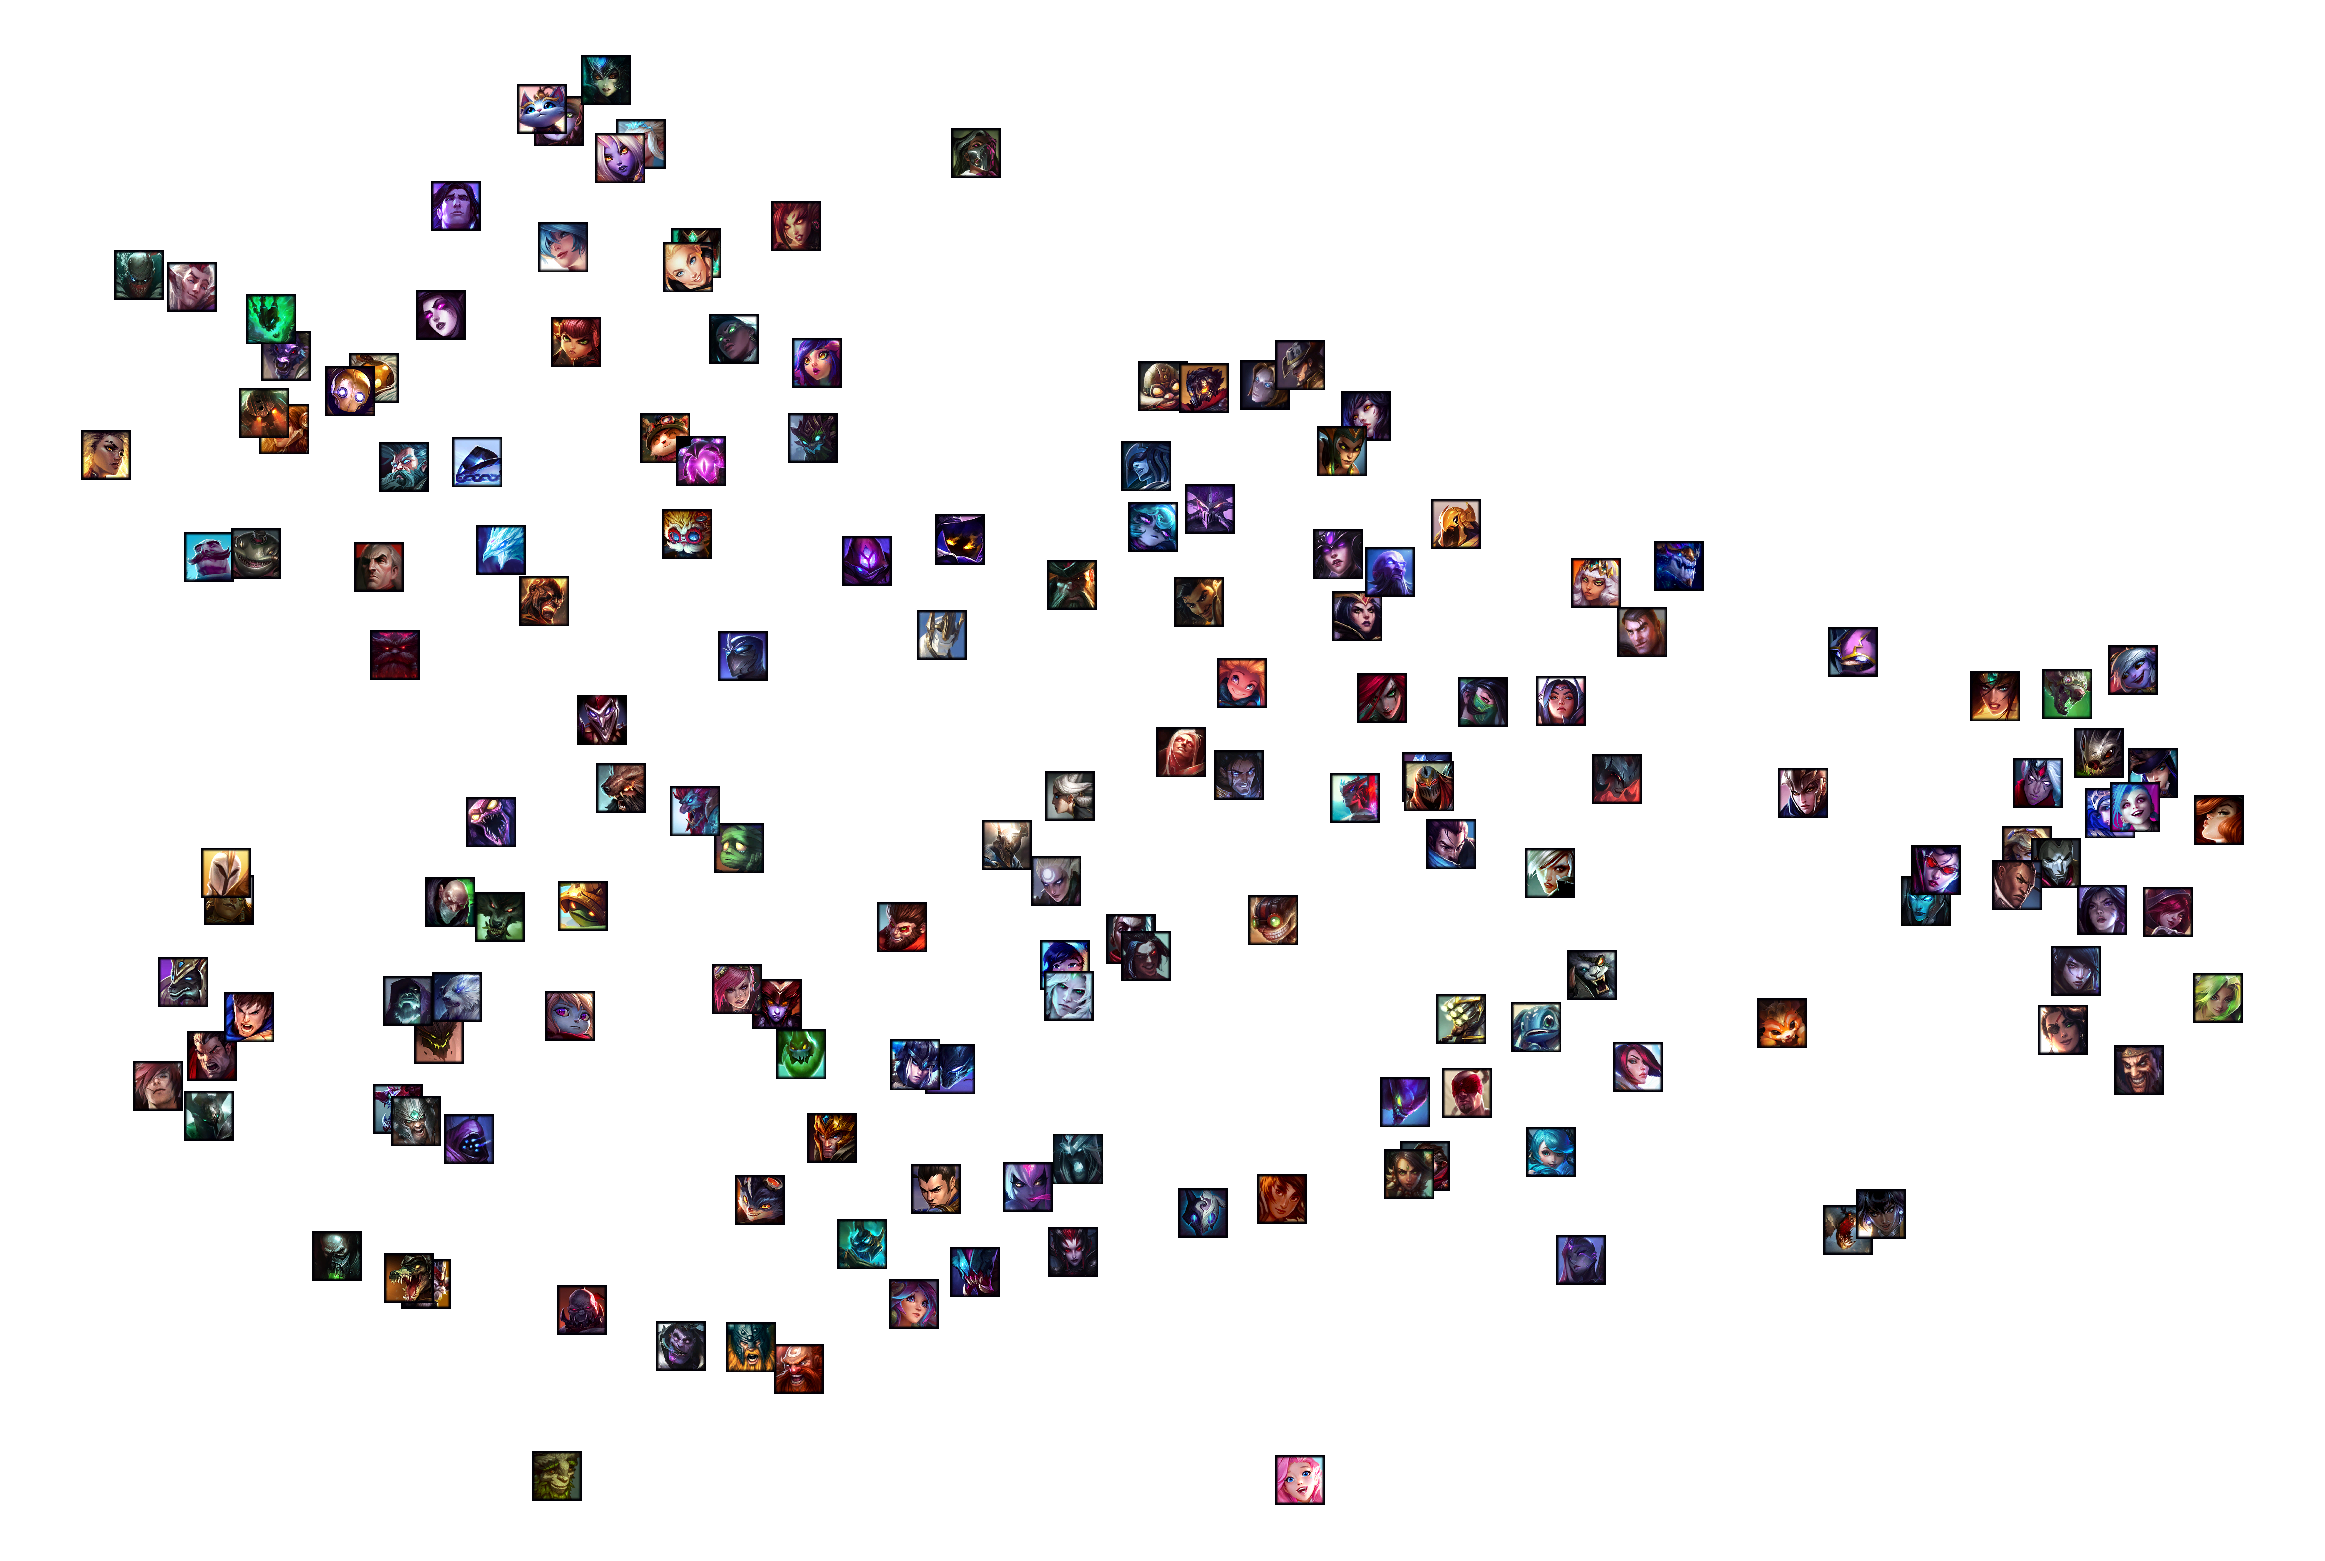
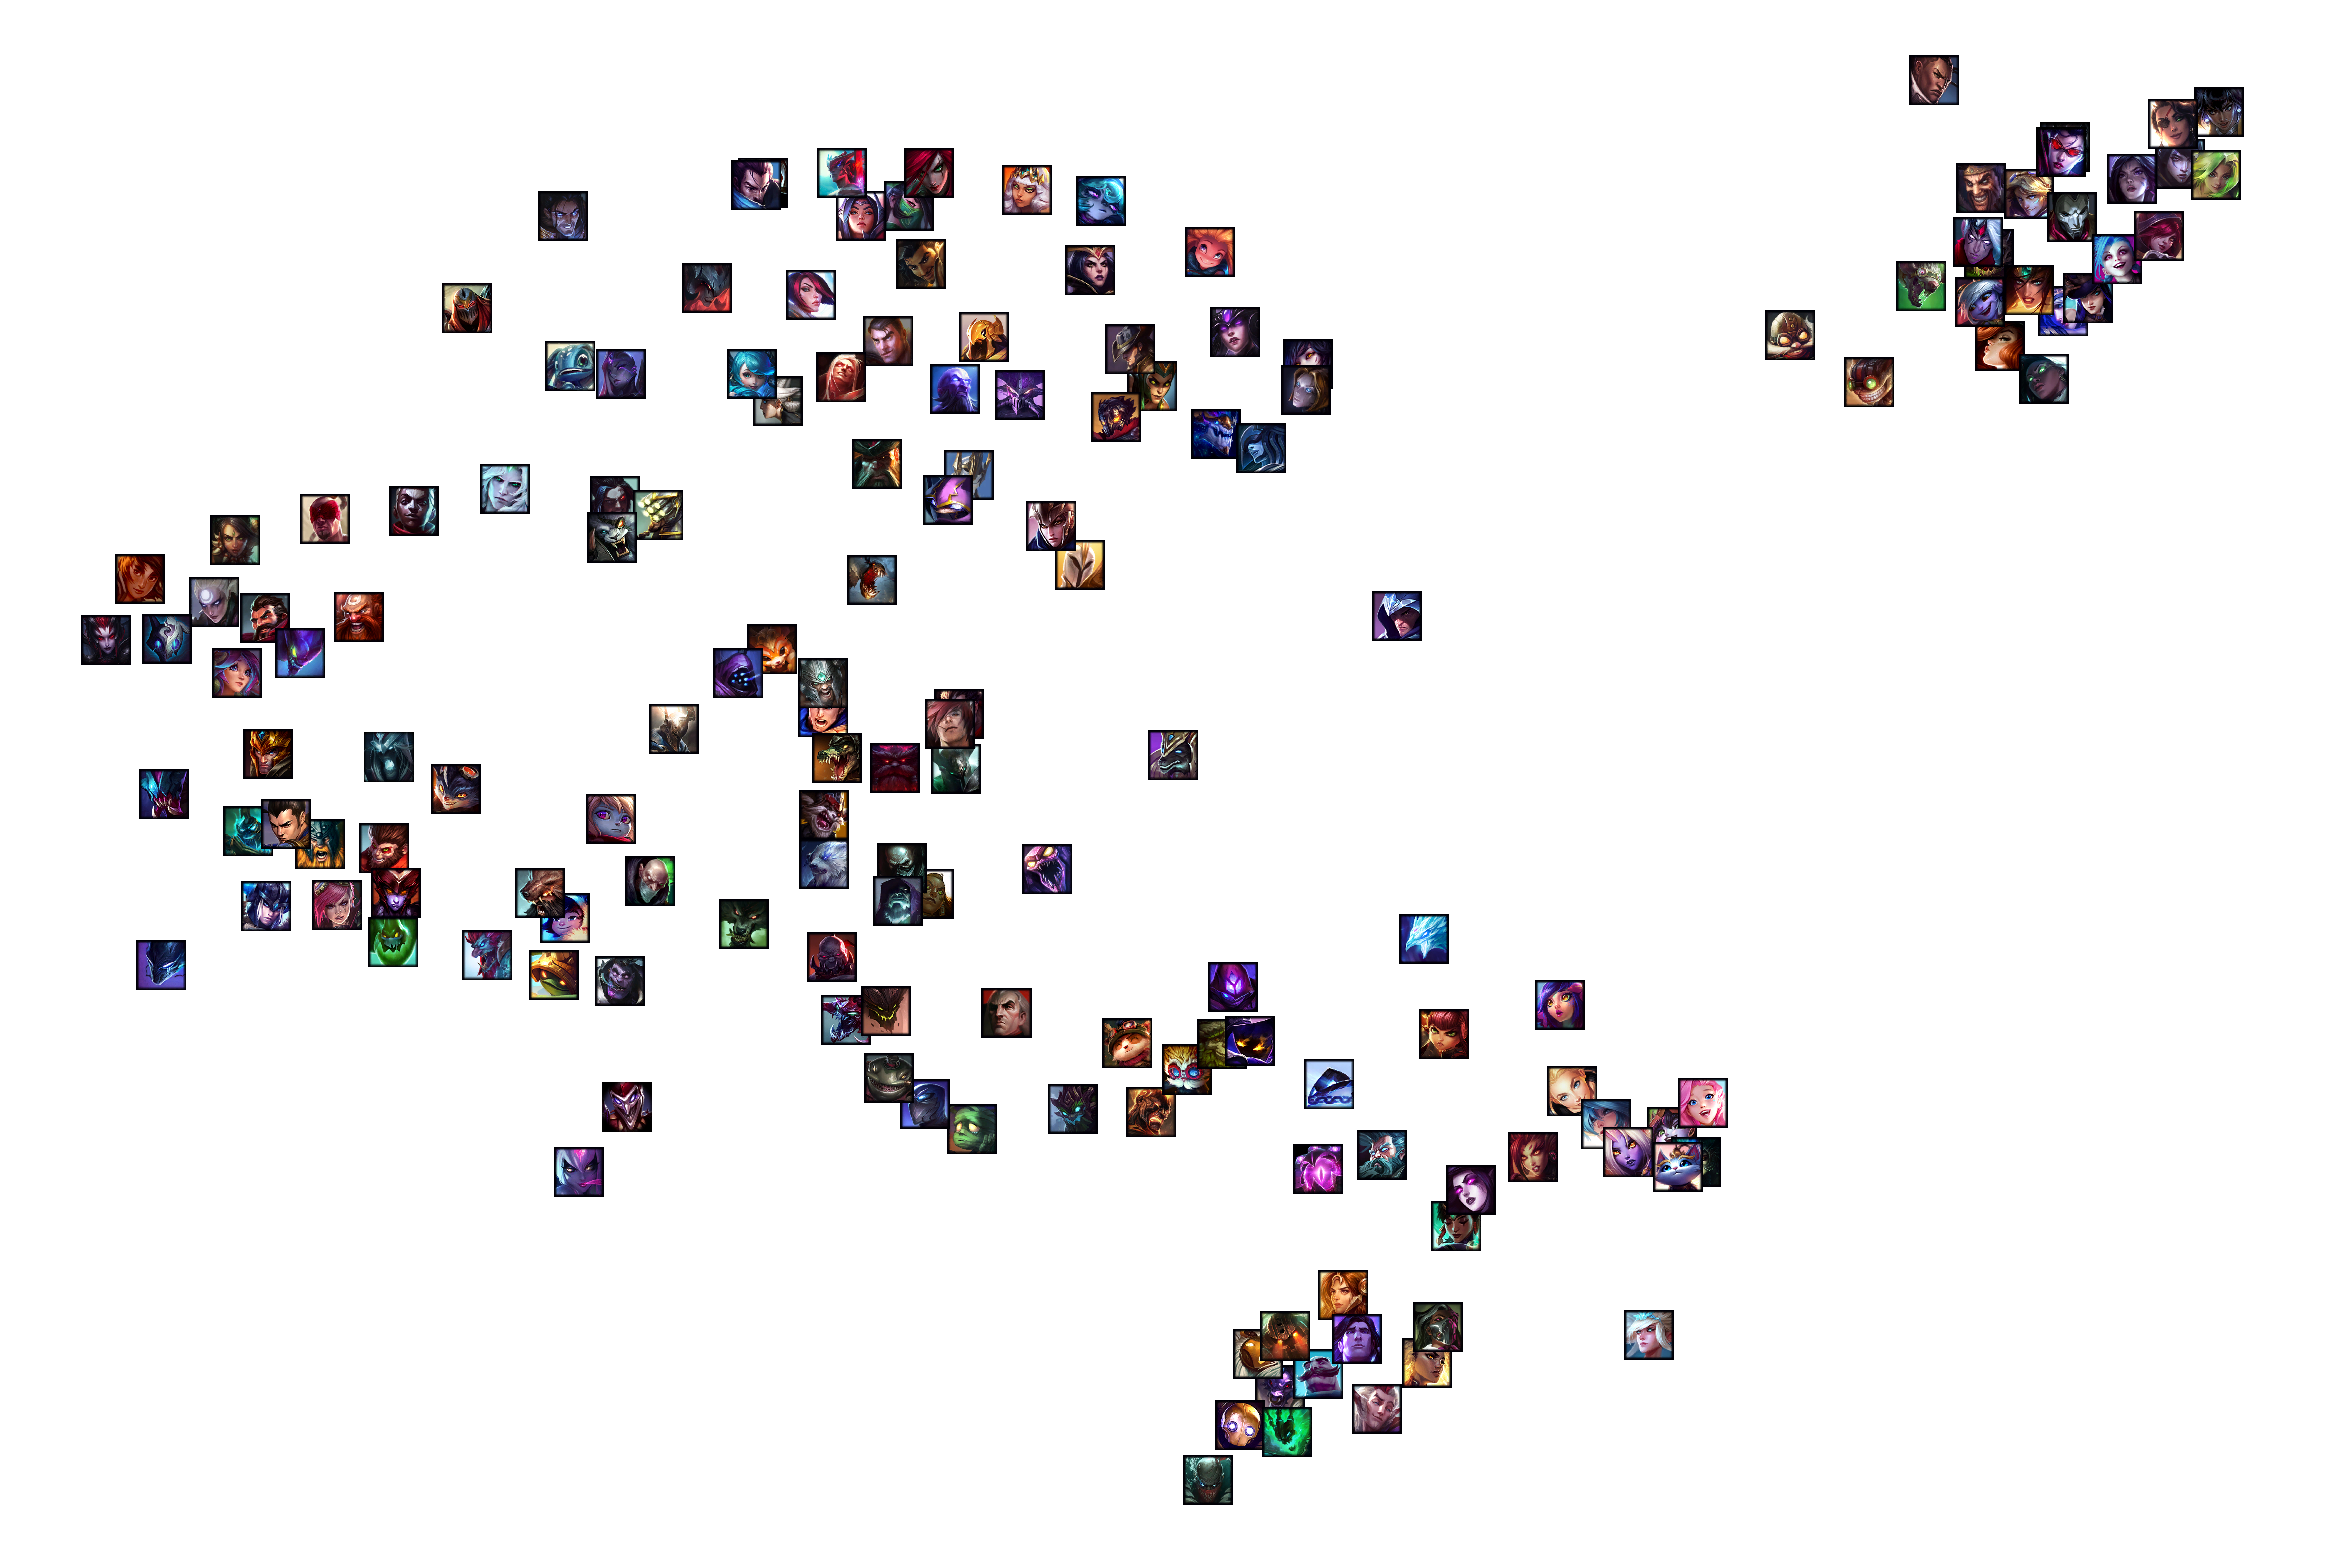
change hyperparameter

diff --git a/embedding.py b/embedding.py
@@ -19,6 +19,8 @@ from matplotlib import pyplot as plt
 from matplotlib.offsetbox import AnnotationBbox, OffsetImage
 from sklearn import manifold 
 
+from sklearn.decomposition import PCA
+
 # SQL and ORM
 import sqlite3
 import pandas as pd
@@ -71,13 +73,13 @@ class Dataset(torch.utils.data.Dataset):
     # Select champion pair with weight
     def _champion_choice(self,champPointDict):
         # Give weight according to the mastery point
-        pointList = [10 if x==None else pow(int(x),0.9) for x in list(champPointDict.values())[2:]]
+        pointList = [10 if x==None else pow(int(x),0.5) for x in list(champPointDict.values())[2:]]
         # Select 15 champions
         pointList = np.array(pointList)/np.ndarray.sum(np.array(pointList))
         if len(pointList) != len(list(ID_TO_CHAMP.values())):
             len(pointList)
             len(list(ID_TO_CHAMP.values()))
-        champWeightedList = list(np.random.choice(np.array(list(ID_TO_CHAMP.values())), p=pointList, size=15, replace=False))
+        champWeightedList = list(np.random.choice(np.array(list(ID_TO_CHAMP.values())), p=pointList, size=20, replace=False))
         champComb = list(itertools.combinations(champWeightedList, 2)) # list of tuple (champName, champName) <- string
         # print(len(champComb))
         return champComb
@@ -110,10 +112,11 @@ time.sleep(2)
 
 ######
 IS_TRAIN = False
+batch_size = 64
 
 # Training step
 train_dataset = Dataset(summonerMasteryResult)
-training_generator = torch.utils.data.DataLoader(train_dataset, shuffle=True)
+training_generator = torch.utils.data.DataLoader(train_dataset, shuffle=True, batch_size=batch_size)
 
 use_cuda = torch.cuda.is_available()
 device = torch.device("cuda:0" if use_cuda else "cpu")
@@ -122,9 +125,9 @@ print(f'Torch device: {device}')
 net = Model(161,15)#.cuda()
 net.train()
 optimizer = optim.Adam(net.parameters())
-total_epoch = 100
+total_epoch = 150
 iteration = 0
-total_iter = total_epoch*train_dataset.__len__()
+total_iter = int(total_epoch*train_dataset.__len__() / batch_size)
 print(total_iter)
 # what I learn:
 if IS_TRAIN:
@@ -132,16 +135,12 @@ if IS_TRAIN:
         for account in training_generator:
             # account: (B, 1, 105, 3)
             optimizer.zero_grad()
-            # print(account.shape)
-            #account = rearrange(account, 'B C A -> (B C) A')
-            # print(account.shape)
-            #champ1 = account[0].to(torch.int) # champ1 index list
-            champ1 = account[0,:,0].to(torch.int)
-            #champ2 = account[1].to(torch.int) # champ2 index list
-            champ2 = account[0,:,1].to(torch.int)
-            gt_score = account[0,:,2] # champion dot product
+            account = rearrange(account, 'B C A -> (B C) A')
+            champ1 = account[:,0].to(torch.int)
+            champ2 = account[:,1].to(torch.int)
+            gt_score = account[:,2] # dot product of mastery point
             pred_score = net(champ1,champ2).view(-1,)
-            loss = F.mse_loss(pred_score, gt_score) # get batch avg loss!
+            loss = F.mse_loss(pred_score, gt_score) # get batch avg loss! 
             iteration += 1
             print(f'Iter: {iteration:06d} / {total_iter:06d} | Loss: {loss.item():.6f}')
             loss.backward()
@@ -161,12 +160,12 @@ for param in net.parameters():
     
 champ_embedding = champ_embedding / np.linalg.norm(champ_embedding, axis = 1).reshape(-1, 1)
 
-# for i in range(161):
-#     champ_vector = (np.expand_dims(champ_embedding[i],0) @ champ_embedding.T)[0]
-#     champ_dict = dict(zip(ID_TO_CHAMP.values(), champ_vector))
-#     champ_dict = dict(sorted(champ_dict.items(), key=lambda item: item[1], reverse=True))
-#     print(champ_dict)
-#     print()
+for i in range(161):
+    champ_vector = (np.expand_dims(champ_embedding[i],0) @ champ_embedding.T)[0]
+    champ_dict = dict(zip(ID_TO_CHAMP.values(), champ_vector))
+    champ_dict = dict(sorted(champ_dict.items(), key=lambda item: item[1], reverse=True))
+    print(list(champ_dict.keys())[:10])
+    print()
 
 ###
 # Championbilder
@@ -174,36 +173,41 @@ CHAMPION_BILDER_URL = 'http://ddragon.leagueoflegends.com/cdn/12.14.1/img/champi
 ICON_ZOOM = 0.03
 REGION = 'kr'
 
-championBilder = list()
-champList = list(champion_info_response.json()['data'].keys())
-print(champList)
-for champion in tqdm(champList, total = len(champList)):
-    while True:
-        bildAntwort = requests.get('{url}{champion}.png'.format(url = CHAMPION_BILDER_URL, champion = champion))
-        if bildAntwort.status_code == 200:
-            break
-        else:
-            time.sleep(0.1)
+# championBilder = list()
+# champList = list(champion_info_response.json()['data'].keys())
+# for champion in tqdm(champList, total = len(champList)):
+#     while True:
+#         bildAntwort = requests.get('{url}{champion}.png'.format(url = CHAMPION_BILDER_URL, champion = champion))
+#         if bildAntwort.status_code == 200:
+#             break
+#         else:
+#             time.sleep(0.1)
     
-    championBilder.append(Image.open(BytesIO(bildAntwort.content)))
+#     championBilder.append(Image.open(BytesIO(bildAntwort.content)))
             
-###
-# TSNE
-tsneTransformation = manifold.TSNE(n_components = 2)
-tsneMatrix = tsneTransformation.fit_transform(champ_embedding)
+# ###
+# # TSNE
+# tsne = manifold.TSNE(n_components = 2)
+# tsneMatrix = tsne.fit_transform(champ_embedding)
 
-tsne2dDf = pd.DataFrame(tsneMatrix, columns = ['X1', 'X2'])
-tsne2dDf['Champion'] = champList
+# pca = PCA(n_components=2)
+# pcaMatrix = pca.fit_transform(champ_embedding)
 
-# Matplotlib
-fig = plt.figure(figsize=(3, 2), dpi=100)
-ax = fig.add_subplot(1, 1, 1)
+# mds = manifold.MDS(n_components = 2)
+# mdsMatrix = mds.fit_transform(champ_embedding)
 
-ax.scatter(tsne2dDf['X1'], tsne2dDf['X2'], color = 'white')
-ax.axis('off')
-for i in range(0, len(champList)):
-    bildBox = OffsetImage(championBilder[i], zoom = ICON_ZOOM)
-    ax.add_artist(AnnotationBbox(bildBox, tsne2dDf.iloc[i][['X1', 'X2']].values, frameon = False))
+# tsne2dDf = pd.DataFrame(mdsMatrix, columns = ['X1', 'X2'])
+# tsne2dDf['Champion'] = champList
 
-fig.savefig("champion_clustering_tsne_{region}.png".format(region = REGION), transparent = False, bbox_inches = 'tight', pad_inches = 0, dpi = 1000)
-plt.close()
+# # Matplotlib
+# fig = plt.figure(figsize=(3, 2), dpi=100)
+# ax = fig.add_subplot(1, 1, 1)
+
+# ax.scatter(tsne2dDf['X1'], tsne2dDf['X2'], color = 'white')
+# ax.axis('off')
+# for i in range(0, len(champList)):
+#     bildBox = OffsetImage(championBilder[i], zoom = ICON_ZOOM)
+#     ax.add_artist(AnnotationBbox(bildBox, tsne2dDf.iloc[i][['X1', 'X2']].values, frameon = False))
+
+# fig.savefig("champion_clustering_mds_{region}.png".format(region = REGION), transparent = False, bbox_inches = 'tight', pad_inches = 0, dpi = 1000)
+# plt.close()
